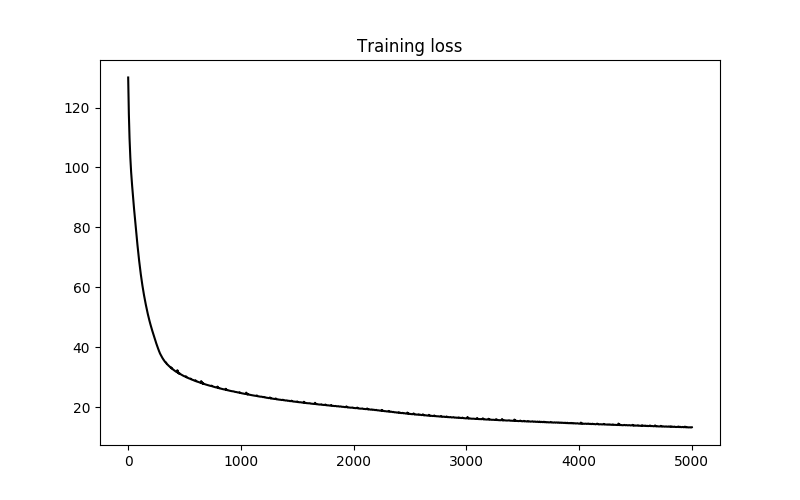
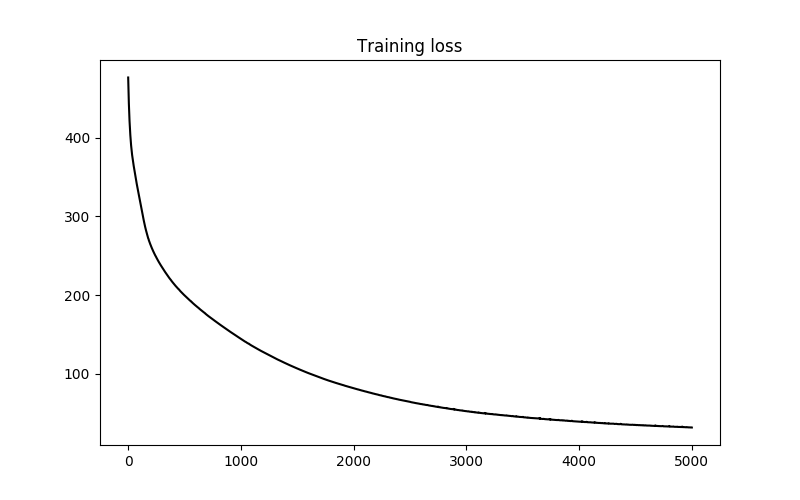
A few bugfixes.

diff --git a/gf/models/graphflow.py b/gf/models/graphflow.py
@@ -4,6 +4,7 @@ import scipy as sp
 import scipy.linalg
 import torch
 import torch.nn as nn
+import torch.nn.functional as F
 import torch.nn.init as init
 from torch.distributions import Normal, Bernoulli, MultivariateNormal, Distribution
 from gf.modules.attn import ISAB, PMA, MAB, SAB
@@ -27,46 +28,7 @@ class EdgePredictor(nn.Module):
         logits = self.forward(X).squeeze(2).squeeze(1)
         return -Bernoulli(logits = logits).log_prob(Y)
 
-#
-#class OneByOneConv(nn.Module):
-#    """
-#    Invertible 1x1 convolution.
-#
-#    [Kingma and Dhariwal, 2018.]
-#    """
-#    def __init__(self, dim, device):
-#        super().__init__()
-#        self.dim = dim
-#        self.device = device
-#        W, _ = sp.linalg.qr(np.random.randn(dim, dim))
-#        P, L, U = sp.linalg.lu(W)
-#        self.P = torch.tensor(P, dtype=torch.float, device = self.device)
-#        self.L = nn.Parameter(torch.tensor(L, dtype=torch.float, device = self.device))
-#        self.S = nn.Parameter(torch.tensor(np.diag(U), dtype=torch.float, device = self.device))
-#        self.U = nn.Parameter(torch.tensor(U - np.diag(U), dtype=torch.float, device = self.device))
-#        self.W_inv = None
-#
-#    def forward(self, x):
-#        L = torch.tril(self.L, diagonal = -1) + torch.eye(self.dim, device = self.device)
-#        U = torch.triu(self.U, diagonal = 1)
-#        z = x @ self.P @ L @ (U + torch.diag(self.S))
-#        log_det = torch.sum(torch.log(torch.abs(self.S)))
-#        log_det = log_det.repeat(x.shape[0]) * x.shape[1]
-#        return z, log_det
-#
-#    def backward(self, z):
-#        if self.W_inv is None:
-#            L = torch.tril(self.L, diagonal = -1) + \
-#                torch.eye(self.dim, device = self.device)
-#            U = torch.triu(self.U, diagonal = 1)
-#            W = self.P @ L @ (U + torch.diag(self.S))
-#            self.W_inv = torch.inverse(W)
-#        x = z @ self.W_inv
-#        log_det = -torch.sum(torch.log(torch.abs(self.S)))
-#        log_det = log_det.repeat(z.shape[0]) * z.shape[1]
-#        return x, log_det
-#
-#
+
 class OneByOneConv(nn.Module):
     """
     Invertible 1x1 convolution.
@@ -78,24 +40,32 @@ class OneByOneConv(nn.Module):
         self.dim = dim
         self.device = device
         W, _ = sp.linalg.qr(np.random.randn(dim, dim))
-        W = torch.tensor(W, dtype=torch.float, device = device)
-        self.W = nn.Parameter(W)
+        P, L, U = sp.linalg.lu(W)
+        self.P = torch.tensor(P, dtype=torch.float, device = self.device)
+        self.L = nn.Parameter(torch.tensor(L, dtype=torch.float, device = self.device))
+        self.S = nn.Parameter(torch.tensor(np.diag(U), dtype=torch.float, device = self.device))
+        self.U = nn.Parameter(torch.triu(torch.tensor(U, dtype=torch.float, device = self.device), diagonal = 1))
         self.W_inv = None
 
     def forward(self, x):
-        z = x @ self.W
-        log_det = torch.slogdet(self.W)[1] * x.shape[1]
-        log_det = log_det.repeat(x.shape[0])
+        L = torch.tril(self.L, diagonal = -1) + torch.eye(self.dim, device = self.device)
+        U = torch.triu(self.U, diagonal = 1)
+        z = x @ self.P @ L @ (U + torch.diag(self.S))
+        log_det = torch.sum(torch.log(torch.abs(self.S)))
+        log_det = log_det.repeat(x.shape[0]) * x.shape[1]
         return z, log_det
 
     def backward(self, z):
         if self.W_inv is None:
-            self.W_inv = torch.inverse(self.W)
+            L = torch.tril(self.L, diagonal = -1) + \
+                torch.eye(self.dim, device = self.device)
+            U = torch.triu(self.U, diagonal = 1)
+            W = self.P @ L @ (U + torch.diag(self.S))
+            self.W_inv = torch.inverse(W)
         x = z @ self.W_inv
-        log_det = -torch.slogdet(self.W)[1] * x.shape[1]
-        log_det = log_det.repeat(z.shape[0])
+        log_det = -torch.sum(torch.log(torch.abs(self.S)))
+        log_det = log_det.repeat(z.shape[0]) * z.shape[1]
         return x, log_det
-
 
 class MLP(nn.Module):
     """

diff --git a/examples/community/test_graphflow.py b/examples/community/test_graphflow.py
@@ -76,7 +76,7 @@ def interpolate(model, edgepredictor, x1, x2, x3, x4, mu, sigma):
         z = torch.tensor(z, dtype=torch.float)
         E = model.backward(z.unsqueeze(0))[0].data.numpy()
         E = E * sigma.data.numpy()[0] + mu.data.numpy()[0]
-        idxs, X = construct_pairwise_X(E[np.newaxis,:])
+        idxs, X = convert_embeddings_pairwise(E[np.newaxis,:])
         X = torch.tensor(X, dtype=torch.float)
         Y = torch.sigmoid(edge_predictor.forward(X))
         A = reconstruct_adjacency_matrix(18, idxs, Y)
@@ -127,7 +127,7 @@ if __name__ == "__main__":
         X, A = gen_graphs([18])
         E_true = np.array([compute_fgsd_embeddings(a) for a in A])
         E_true = E_true[:, :, :args.K]
-        idxs, X, Y = convert_embeddings_pairwise(A, E_true)
+        idxs, X, Y = convert_embeddings_pairwise(E_true, A)
         X = torch.tensor(X, dtype=torch.float)
         Y_hat = torch.sigmoid(edge_predictor.forward(X))
         A_hat = reconstruct_adjacency_matrix(18, idxs, Y_hat)
@@ -172,7 +172,7 @@ if __name__ == "__main__":
         plt.imshow(E[0].data.numpy(), vmin = -0.8, vmax = 0.8)
         plt.title("Generated")
 
-        idxs, X = construct_pairwise_X(E.data.numpy())
+        idxs, X = convert_embeddings_pairwise(E.data.numpy())
         X = torch.tensor(X, dtype=torch.float)
         Y_hat = torch.sigmoid(edge_predictor.forward(X))
         A_hat = reconstruct_adjacency_matrix(18, idxs, Y_hat)

diff --git a/gf/utils.py b/gf/utils.py
@@ -35,16 +35,19 @@ def convert_embeddings_pairwise(E, A=None):
             first = E_k[i][np.newaxis,:]
             second = E_k[j][np.newaxis,:]
             rest_idx = np.r_[np.arange(i), np.arange(i + 1, j),
-                             np.arange(j + 1, len(A_k))]
+                             np.arange(j + 1, len(E_k))]
             rest = np.take(E_k, rest_idx, axis=0)
             idxs += [(i, j)]
             X += [np.r_[first, second, rest]]
             if A is not None:
                 Y += [A[b][i, j]]
-    return idxs, np.array(X) if A is None else idxs, np.array(X), np.array(Y)
+    if A is None:
+        return idxs, np.array(X)
+    else:
+        return idxs, np.array(X), np.array(Y)
 
 
-def reconstruct_adjacency_matrix_matrix(N, idxs, Y_hat):
+def reconstruct_adjacency_matrix(N, idxs, Y_hat):
     """
     Reconstruct the adjacency matrix from a set of indices and predictions.
 

diff --git a/examples/community/train_graphflow.py b/examples/community/train_graphflow.py
@@ -7,7 +7,7 @@ import numpy as np
 import networkx as nx
 from argparse import ArgumentParser
 from matplotlib import pyplot as plt
-from gf.graphflow import GF, EdgePredictor
+from gf.models.graphflow import GF, EdgePredictor
 from gf.utils import *
 from tqdm import tqdm
 
@@ -96,7 +96,7 @@ if __name__ == "__main__":
             optimizer.step()
             scheduler.step(loss.data.numpy())
             if i % 1 == 0:
-                logger.info(f"Iter: {i}\t" +
+                logger.info(f"Iter: {i}\t" + \
                             f"Loss: {loss.mean().data:.2f}\t")
 
         torch.save(edge_predictor.state_dict(), f"./ckpts/{args.edgepredictor_file}")
